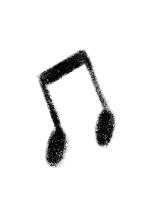
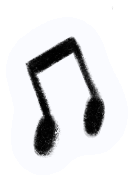
Version the artwork urls so replaced drawings actually appear
The CSS and JS carried ?v= but the images did not, so a redrawn sticker kept
showing the browser's cached copy no matter how hard the page was reloaded.
All six sticker urls, their svg fallbacks and the hero now carry the same
version, which bumps with everything else.

Also installs the final music drawings: guitar from new_music.png, singing from
secon_new_music.png, both with hand-drawn die cuts. All six stickers now have
their borders drawn rather than generated.

Changed region(s): [[0.1791, 0.1934, 0.806, 0.884]]

diff --git a/index.html b/index.html
@@ -31,7 +31,7 @@
         href="https://fonts.googleapis.com/css2?family=Mona+Sans:wght@400;500;700;800&display=swap">
 
   <!-- bump ?v= when you edit these, so browsers pick up the change -->
-  <link rel="stylesheet" href="css/style.css?v=25">
+  <link rel="stylesheet" href="css/style.css?v=26">
 
   <!-- Artwork can be .png or .svg. Try png, then svg, then show the word (or a blank cover).
        Defined here because images start loading before the body script runs. -->
@@ -77,16 +77,16 @@
            whole idea, so keep it if you restyle these. -->
       <div class="stage" id="stage">
         <figure class="me">
-          <img src="assets/me-in-bubble.png" alt="Uju, sitting cross-legged and reading"
-               onerror="pickFormat(this, 'assets/me-in-bubble.svg')">
+          <img src="assets/me-in-bubble.png?v=26" alt="Uju, sitting cross-legged and reading"
+               onerror="pickFormat(this, 'assets/me-in-bubble.svg?v=26')">
           <figcaption class="placeholder-note">assets/me-in-bubble.png</figcaption>
         </figure>
 
         <button class="sticker" data-sound="reading" data-started
                 style="--x: 10%; --y: 14%; --size: clamp(64px, 16.5cqw, 198px); --tilt: -13deg">
           <span class="sticker-inner">
-            <img class="sticker-art" src="assets/stickers/reading.png" alt=""
-                 onerror="pickFormat(this, 'assets/stickers/reading.svg')">
+            <img class="sticker-art" src="assets/stickers/reading.png?v=26" alt=""
+                 onerror="pickFormat(this, 'assets/stickers/reading.svg?v=26')">
             <span class="sticker-shine" aria-hidden="true"></span>
             <span class="sticker-label">Reading</span>
           </span>
@@ -94,8 +94,8 @@
         <button class="sticker" data-sound="plane"
                 style="--x: 91%; --y: 12%; --size: clamp(60px, 15.5cqw, 186px); --tilt: 6deg">
           <span class="sticker-inner">
-            <img class="sticker-art" src="assets/stickers/plane.png" alt=""
-                 onerror="pickFormat(this, 'assets/stickers/plane.svg')">
+            <img class="sticker-art" src="assets/stickers/plane.png?v=26" alt=""
+                 onerror="pickFormat(this, 'assets/stickers/plane.svg?v=26')">
             <span class="sticker-shine" aria-hidden="true"></span>
             <span class="sticker-label">Travel</span>
           </span>
@@ -103,8 +103,8 @@
         <button class="sticker" data-sound="singing"
                 style="--x: 7%; --y: 48%; --size: clamp(58px, 15cqw, 180px); --tilt: 10deg">
           <span class="sticker-inner">
-            <img class="sticker-art" src="assets/stickers/singing.png" alt=""
-                 onerror="pickFormat(this, 'assets/stickers/singing.svg')">
+            <img class="sticker-art" src="assets/stickers/singing.png?v=26" alt=""
+                 onerror="pickFormat(this, 'assets/stickers/singing.svg?v=26')">
             <span class="sticker-shine" aria-hidden="true"></span>
             <span class="sticker-label">Singing</span>
           </span>
@@ -112,8 +112,8 @@
         <button class="sticker" data-sound="guitar"
                 style="--x: 94%; --y: 50%; --size: clamp(56px, 14.5cqw, 174px); --tilt: -15deg">
           <span class="sticker-inner">
-            <img class="sticker-art" src="assets/stickers/guitar.png" alt=""
-                 onerror="pickFormat(this, 'assets/stickers/guitar.svg')">
+            <img class="sticker-art" src="assets/stickers/guitar.png?v=26" alt=""
+                 onerror="pickFormat(this, 'assets/stickers/guitar.svg?v=26')">
             <span class="sticker-shine" aria-hidden="true"></span>
             <span class="sticker-label">Guitar</span>
           </span>
@@ -121,8 +121,8 @@
         <button class="sticker" data-sound="drawing"
                 style="--x: 12%; --y: 84%; --size: clamp(54px, 14cqw, 168px); --tilt: -4deg">
           <span class="sticker-inner">
-            <img class="sticker-art" src="assets/stickers/drawing.png" alt=""
-                 onerror="pickFormat(this, 'assets/stickers/drawing.svg')">
+            <img class="sticker-art" src="assets/stickers/drawing.png?v=26" alt=""
+                 onerror="pickFormat(this, 'assets/stickers/drawing.svg?v=26')">
             <span class="sticker-shine" aria-hidden="true"></span>
             <span class="sticker-label">Drawing</span>
           </span>
@@ -130,8 +130,8 @@
         <button class="sticker" data-sound="games"
                 style="--x: 88%; --y: 86%; --size: clamp(50px, 13cqw, 156px); --tilt: 12deg">
           <span class="sticker-inner">
-            <img class="sticker-art" src="assets/stickers/games.png" alt=""
-                 onerror="pickFormat(this, 'assets/stickers/games.svg')">
+            <img class="sticker-art" src="assets/stickers/games.png?v=26" alt=""
+                 onerror="pickFormat(this, 'assets/stickers/games.svg?v=26')">
             <span class="sticker-shine" aria-hidden="true"></span>
             <span class="sticker-label">Games</span>
           </span>
@@ -233,8 +233,8 @@
     <p class="footer-fine">© <span id="year">2026</span> Uju Duru</p>
   </footer>
 
-  <script src="js/site.js?v=25"></script>
-  <script src="js/stickers.js?v=25"></script>
-  <script src="js/carousel.js?v=25"></script>
+  <script src="js/site.js?v=26"></script>
+  <script src="js/stickers.js?v=26"></script>
+  <script src="js/carousel.js?v=26"></script>
 </body>
 </html>
